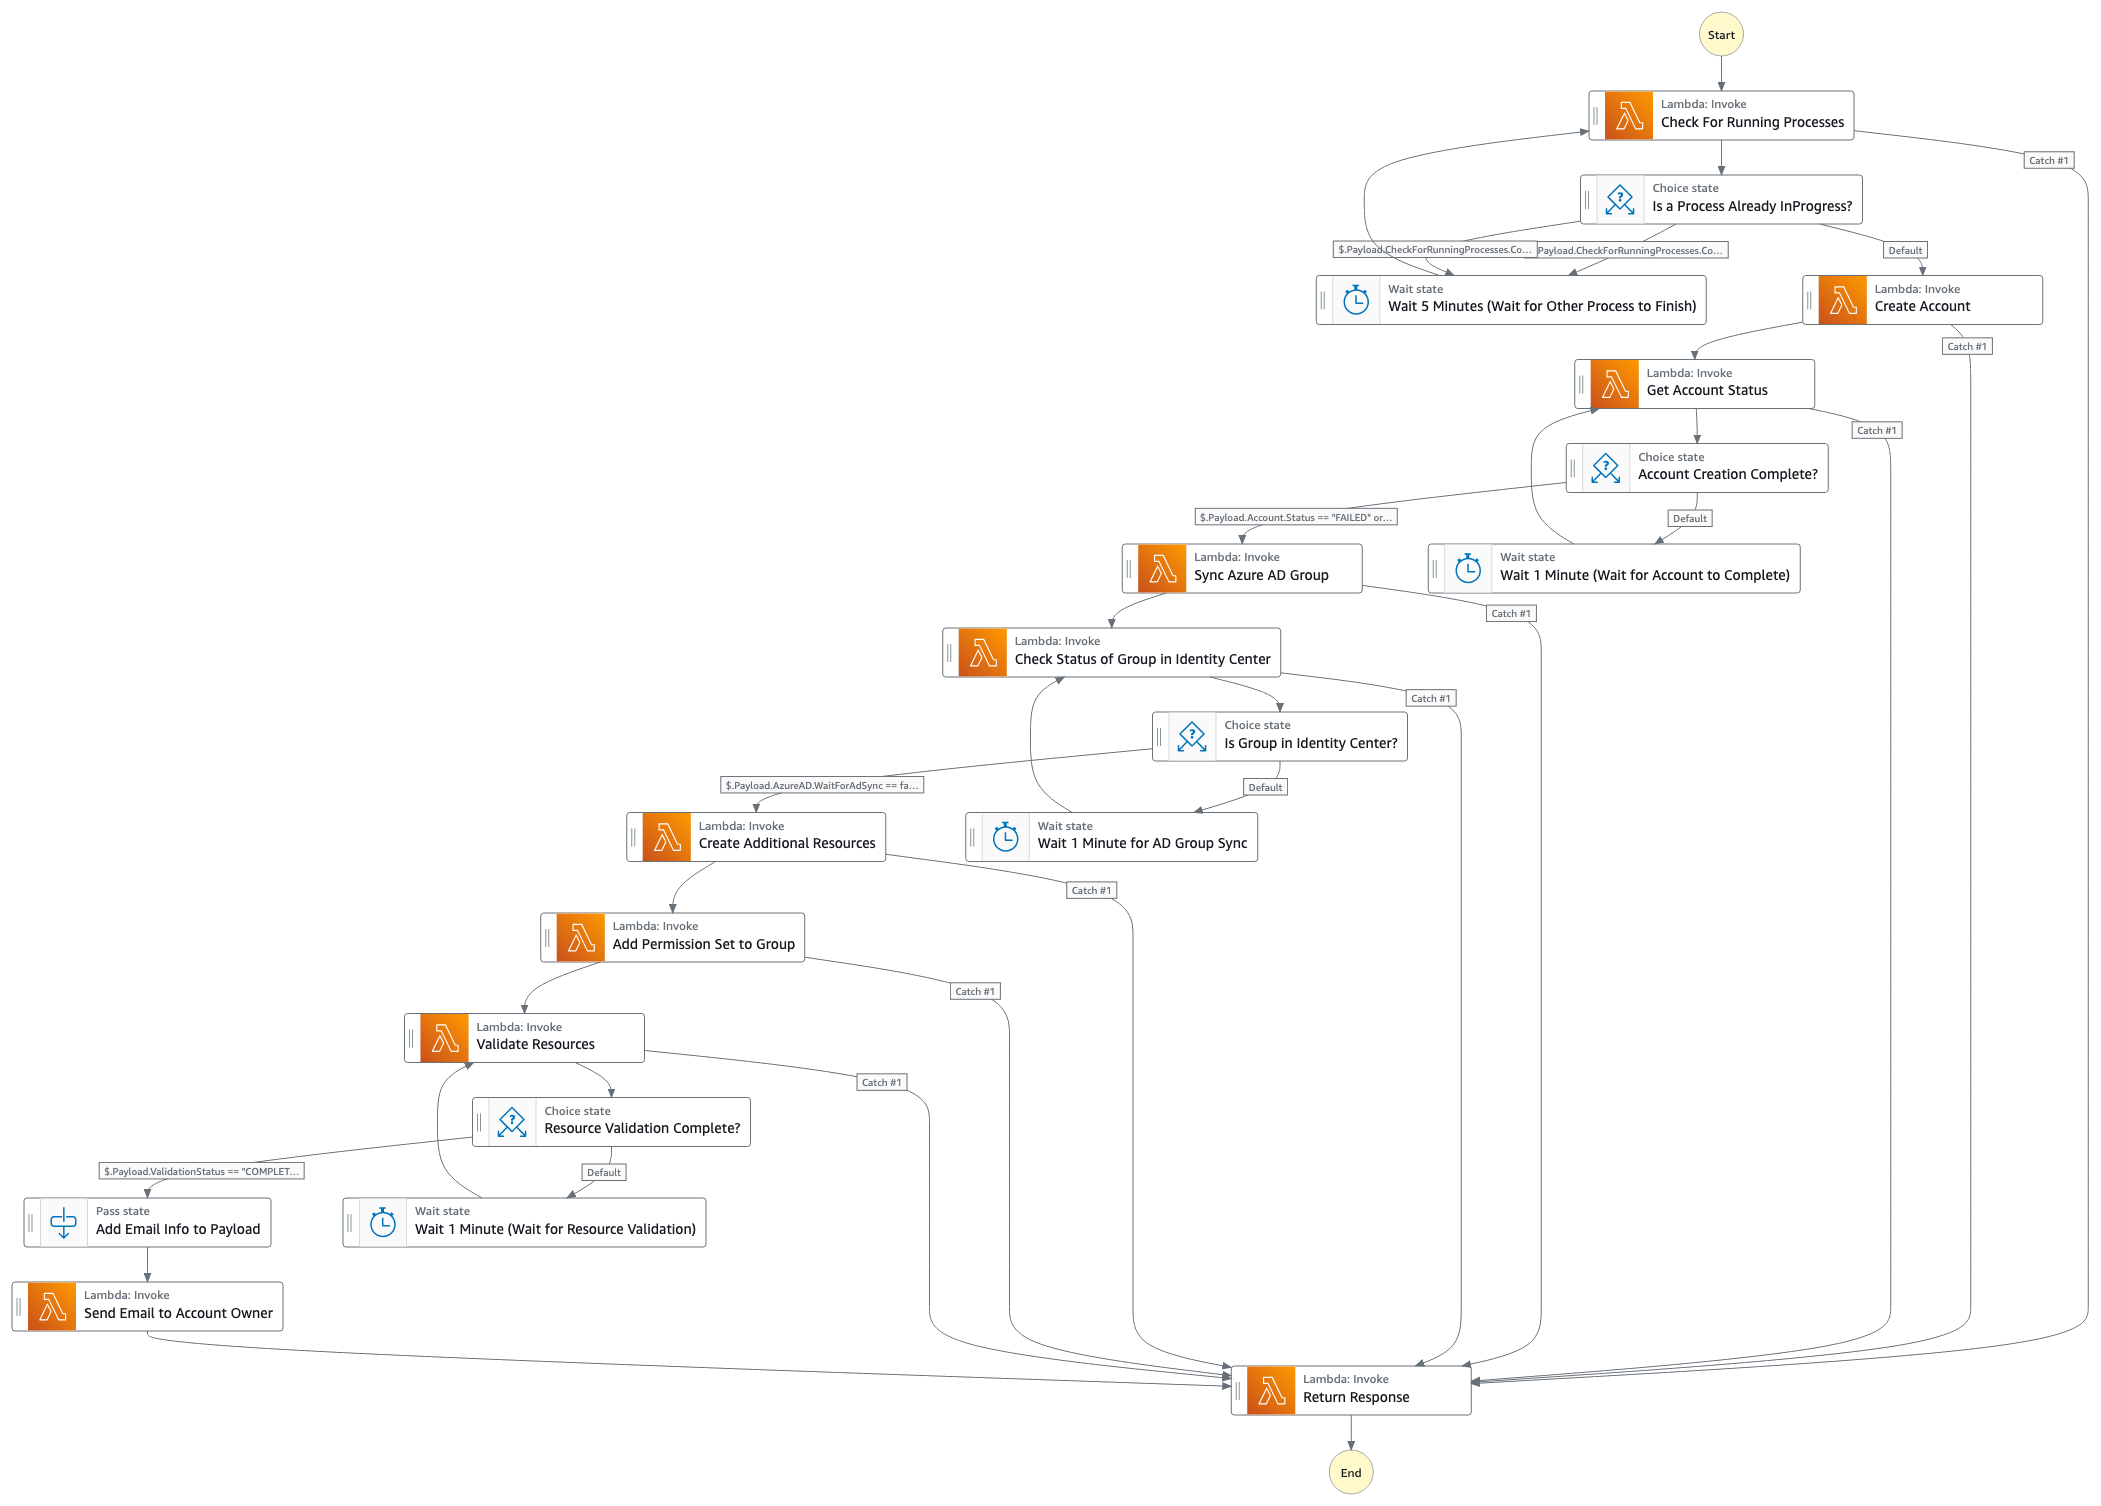
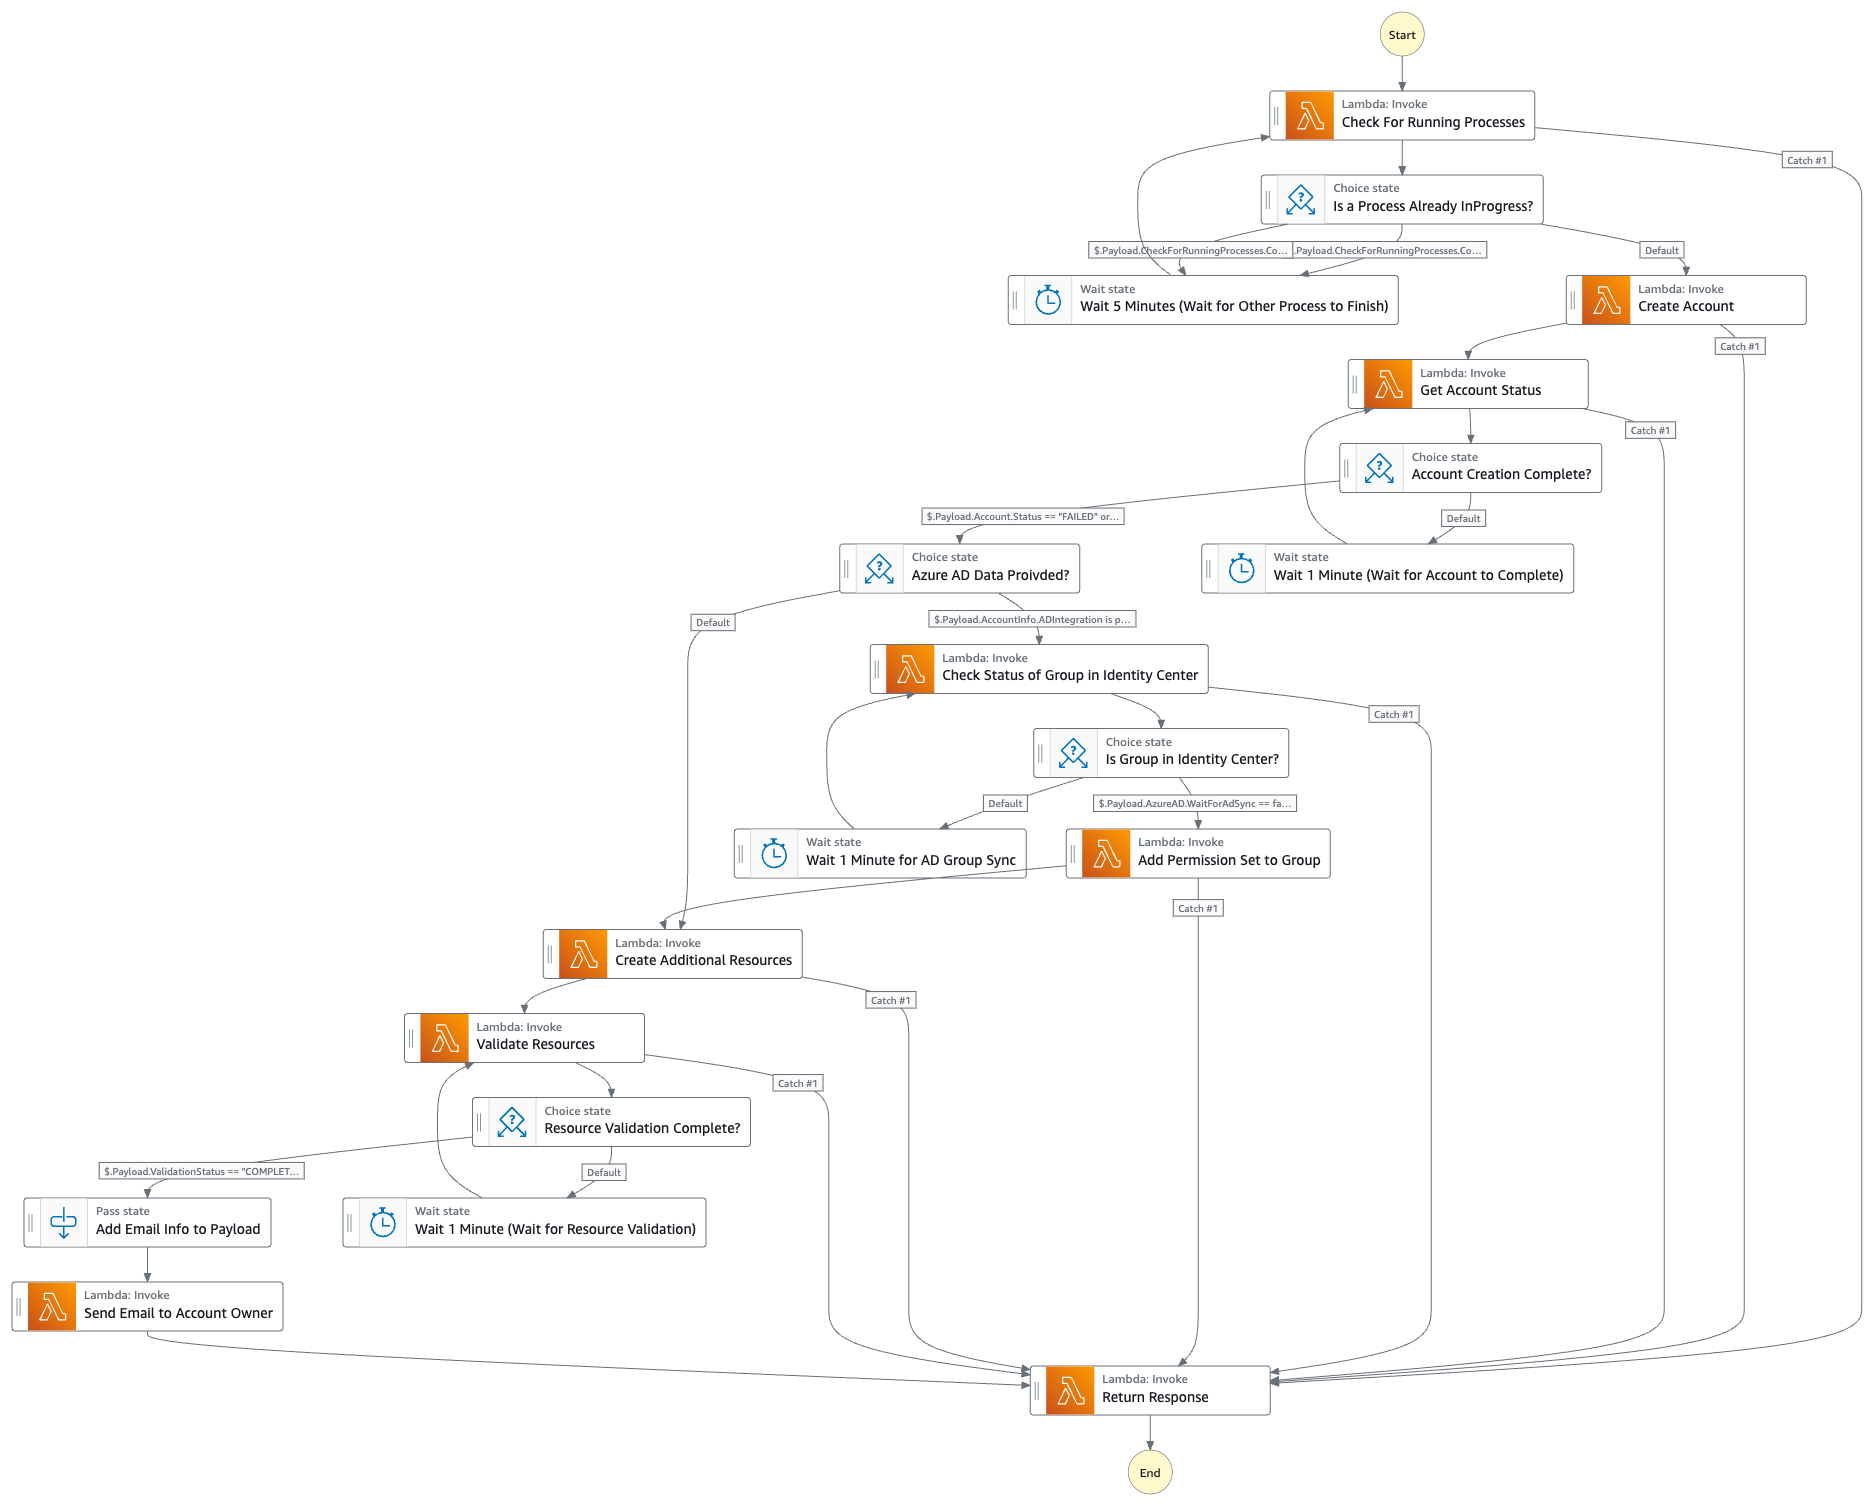
update diagram and README

diff --git a/app/lambda_src/api/GetExecutionStatus/main.py b/app/lambda_src/api/GetExecutionStatus/main.py
@@ -31,7 +31,7 @@ def lambda_handler(event, context):
     sf_client = boto3.client(service_name='stepfunctions')
 
     try:
-        # Get StepFunction Execution or ExecutionArn from API Parameter 
+        # Get StepFunction Execution or ExecutionArn from API Parameter
         execution_arn = event['queryStringParameters'].get('execution_arn')
         execution = event['queryStringParameters'].get('execution')
 
@@ -39,7 +39,7 @@ def lambda_handler(event, context):
             raise Exception("Please specify \"execution_arn\" or \"execution\" as API Parameter.")
 
         # Setup StepFunction Execution Arn if one is not setup
-        if not execution_arn: 
+        if not execution_arn:
             execution = event['queryStringParameters'].get('execution')
             execution_arn = f"{os.environ['SF_EXECUTION_ARN_BASE']}:{execution}"
 
@@ -60,7 +60,7 @@ def lambda_handler(event, context):
 
             current_task = sm_exec_hist_response['events'][0].get('stateEnteredEventDetails', \
                 {"name": "State machines is still starting, try again in a few seconds."}).get('name')
-            response_body['CurrentExecutionTask'] = current_task 
+            response_body['CurrentExecutionTask'] = current_task
 
         if response_body['Status'] == 'FAILED':
             response_body['Cause'] = sm_desc_response['cause']

diff --git a/README.md b/README.md
@@ -12,7 +12,7 @@ Optionally, there is a feature that integrates Microsoft Entra ID (Azure Active 
 
 ### Step Function Workflow for Account Creation
 
-![Step Function workflow diagram](images/stepfunctions_graph.png)
+<img src="images/stepfunctions_graph.png" style="background-color: white;">
 
 ### Folder Structure
 
@@ -112,6 +112,8 @@ Optionally, there is a feature that integrates Microsoft Entra ID (Azure Active 
         - deploymentTargets:
             organizationalUnits:
               - Root
+            excludedAccounts:
+              - Management              
           description: IAM Role to allow Account Validation
           name: lza-account-creation-validation
           regions:
@@ -349,12 +351,22 @@ Result
 Pass
 
 ```bash
+# Using the AWS Step Function Execution Name to get the status
 awscurl --service execute-api \
   --region ${AWS_REGION} \
   --access_key ${AWS_ACCESS_KEY_ID} \
   --secret_key ${AWS_SECRET_ACCESS_KEY} \
   --security_token ${AWS_SESSION_TOKEN} \
   -X GET ${API_GATEWAY_ENDPOINT}get_execution_status?execution=<<STEP_FUNCTION_EXECUTION_NAME>>
+
+# OR you can use the AWS Step Function Execution ARN to get the status
+awscurl --service execute-api \
+  --region ${AWS_REGION} \
+  --access_key ${AWS_ACCESS_KEY_ID} \
+  --secret_key ${AWS_SECRET_ACCESS_KEY} \
+  --security_token ${AWS_SESSION_TOKEN} \
+  -X GET ${API_GATEWAY_ENDPOINT}get_execution_status?execution_arn=<<STEP_FUNCTION_EXECUTION_ARN>>
+
 ```
 
 Pass Result
